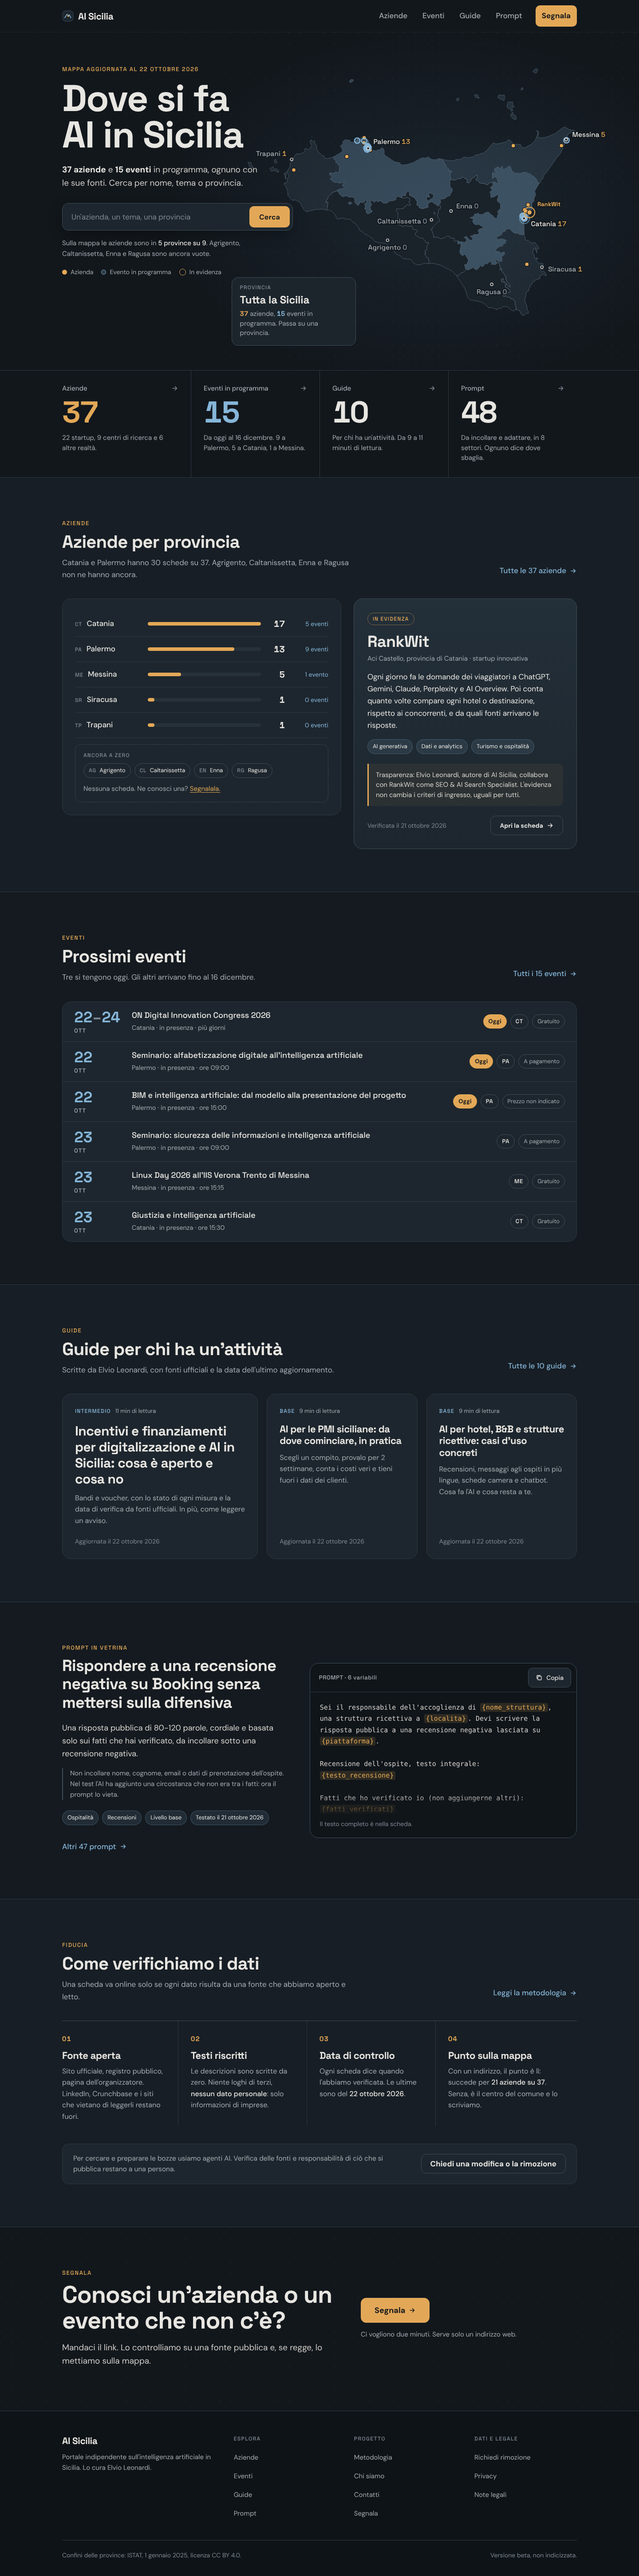
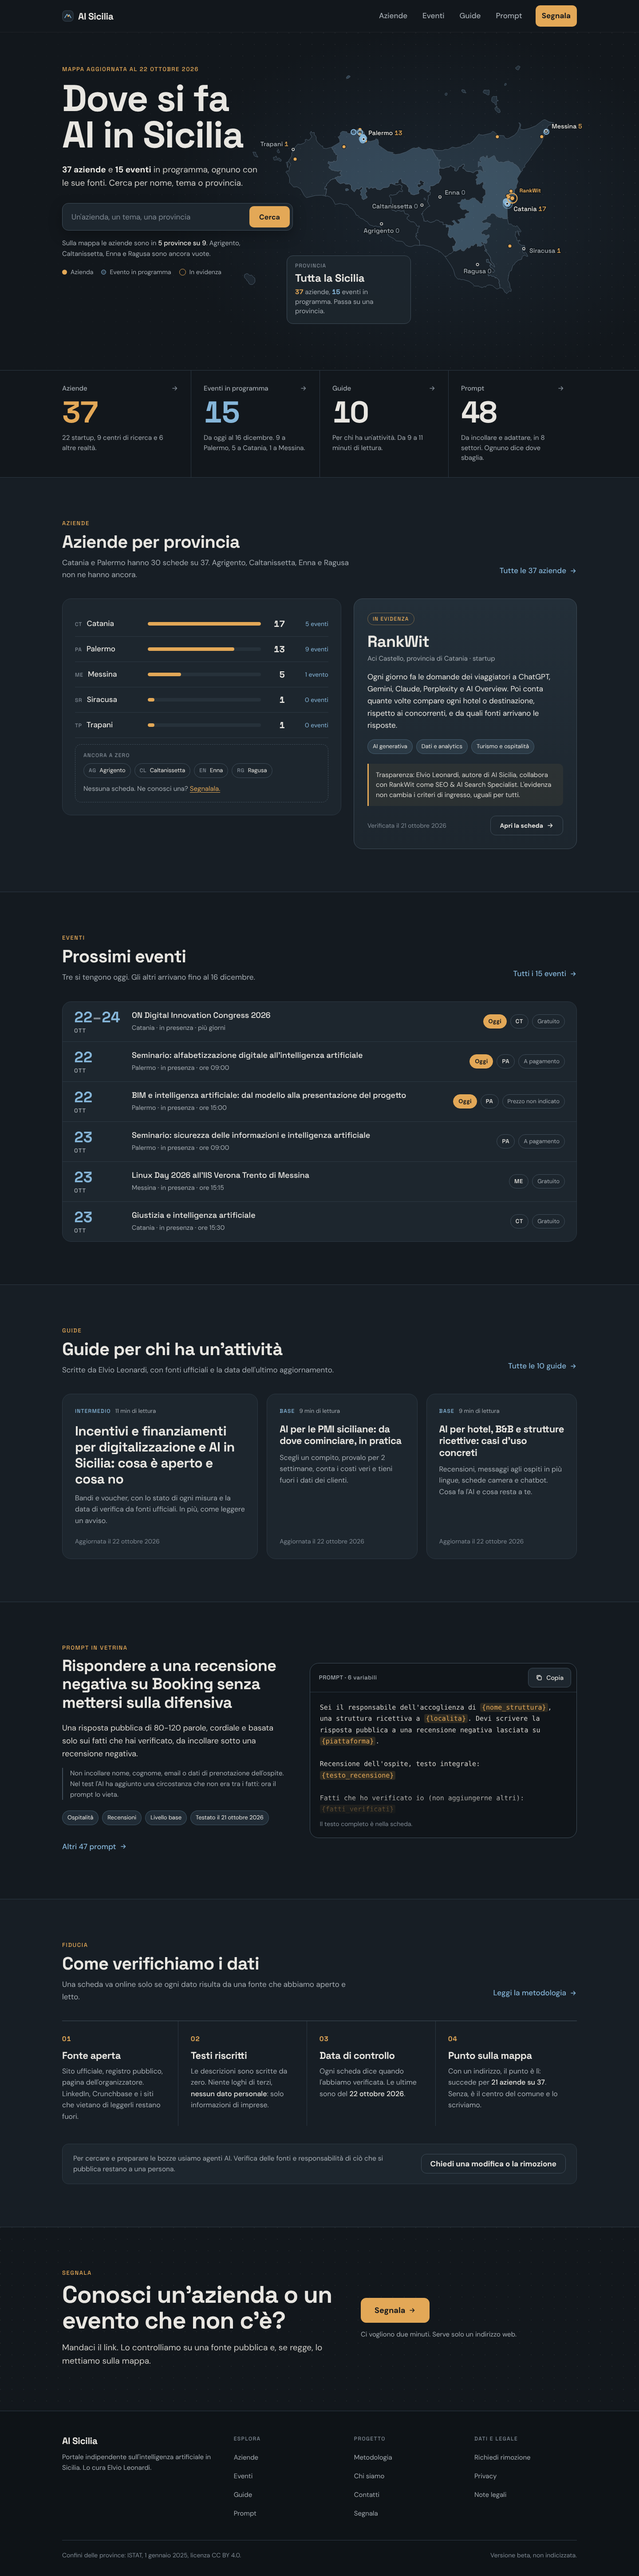
Mockup homepage (checkpoint locale)
Claude-Session: https://claude.ai/code/session_01LHSuPENt35K63dHdy5s7Bv

Changed region(s): [[0.4375, 0.0312, 0.9062, 0.1249], [0.375, 0.0937, 0.4062, 0.1249]]

diff --git a/docs/mockups/hp-c.html b/docs/mockups/hp-c.html
@@ -55,7 +55,7 @@ h2{font-size:clamp(28px,3.2vw,40px)}
   background-image:radial-gradient(circle at 1px 1px,rgba(232,230,225,.07) 1px,transparent 0);background-size:26px 26px}
 .hero::before{content:"";position:absolute;inset:0;background:radial-gradient(60% 75% at 68% 52%,rgba(60,90,120,.20),transparent 70%),linear-gradient(90deg,var(--bg0) 0,rgba(18,23,28,.0) 45%);pointer-events:none}
 .hero .wrap{position:relative}
-.hero-map{position:absolute;right:max(12px,calc((100vw - 1360px)/2));top:50px;width:min(61vw,890px)}
+.hero-map{position:absolute;right:max(12px,calc((100vw - 1360px)/2));top:46px;width:min(60vw,880px)}
 .sicily{display:block;width:100%;height:auto;overflow:visible}
 .prov path{stroke:#4A5A68;stroke-width:1px;vector-effect:non-scaling-stroke;stroke-linejoin:round;transition:filter .2s,stroke .2s}
 .prov{outline:none;cursor:pointer}
@@ -71,6 +71,7 @@ h2{font-size:clamp(28px,3.2vw,40px)}
 .lab .n{fill:var(--amber);font-variant-numeric:tabular-nums}
 .lab .n.z{fill:var(--faint)}
 .rwl{fill:var(--amber);font-weight:700;font-size:6.6px}
+.hero-copy>*{position:relative;z-index:2}
 .hero-copy{position:relative;z-index:2;padding:76px 0 40px;max-width:560px}
 .hero h1{font-size:clamp(44px,6vw,84px);line-height:.98;margin:18px 0 22px;text-wrap:balance}
 .lead{font-size:19px;color:#CFCDC8;max-width:34ch}
@@ -85,7 +86,7 @@ h2{font-size:clamp(28px,3.2vw,40px)}
 .search button:hover{background:#EDB868}
 .hero-note{margin-top:16px;font-size:15px;color:var(--muted);max-width:46ch}
 .hero-note b{color:var(--text);font-weight:500}
-.readout{position:absolute;z-index:3;left:0;bottom:-30px;width:280px;background:rgba(29,38,46,.92);border:1px solid var(--line-2);border-radius:var(--r);padding:16px 18px}
+.readout{position:absolute;z-index:3;left:110px;bottom:-34px;width:280px;background:rgba(29,38,46,.92);border:1px solid var(--line-2);border-radius:var(--r);padding:16px 18px}
 .readout .k{font:500 12px/1 var(--display);letter-spacing:.1em;text-transform:uppercase;color:var(--faint)}
 .readout .v{font:700 24px/1.15 var(--display);margin-top:8px;letter-spacing:-.01em}
 .readout .d{margin-top:6px;color:var(--muted);font-size:15px;line-height:1.45}
@@ -255,7 +256,7 @@ footer .about{max-width:34ch;margin-top:14px}
   .hero-copy>*{margin-left:20px;margin-right:20px}
   .hero-copy .eyebrow{order:1;margin-top:34px}
   .hero h1{order:2}.lead{order:3;margin-bottom:0}
-  .hero-map{order:4;margin:8px 0 0}
+  .hero-map{order:4;margin:-24px -18px -8px}
   .search{order:5;margin-top:10px}.hero-note{order:6}.legend{order:7}
   .hero .wrap{padding-bottom:0}
   .hero h1{font-size:46px;margin:14px 20px 16px}
@@ -283,9 +284,9 @@ footer .about{max-width:34ch;margin-top:14px}
   .prow{grid-template-columns:118px 1fr 32px;gap:10px}
   .pe{display:none}
   .prow .pn{font-size:15px}
-  .ev-row a{grid-template-columns:70px 1fr;gap:14px;padding:16px 18px}
+  .ev-row a{grid-template-columns:86px 1fr;gap:12px;padding:16px 18px}
   .ev-row .chips{grid-column:2;justify-content:flex-start}
-  .date b{font-size:28px}
+  .date b{font-size:26px}
   .evt{font-size:17px}
   .guides{grid-template-columns:1fr}
   .g{min-height:0}
@@ -319,7 +320,7 @@ footer .about{max-width:34ch;margin-top:14px}
       <div class="legend" aria-label="Legenda"><span><i class="a"></i>Azienda</span><span><i class="e"></i>Evento in programma</span><span><i class="r"></i>In evidenza</span></div>
     </div>
   </div>
-  <div class="hero-map"><svg viewBox="-4 -12 444 316" role="img" aria-labelledby="mt md" class="sicily"><title id="mt">Mappa della Sicilia con le aziende e gli eventi di AI Sicilia</title><desc id="md">37 aziende (punti ambra) e 15 eventi in programma (cerchi azzurri), divisi nelle nove province.</desc>
+  <div class="hero-map"><svg viewBox="-4 -12 474 316" role="img" aria-labelledby="mt md" class="sicily"><title id="mt">Mappa della Sicilia con le aziende e gli eventi di AI Sicilia</title><desc id="md">37 aziende (punti ambra) e 15 eventi in programma (cerchi azzurri), divisi nelle nove province.</desc>
 <g class="prov" tabindex="0" data-p="agrigento"><title>Agrigento: 0 aziende, 0 eventi in programma</title><path d="M189.7 150.8l.7 .1 2.2 .4 4-1.2 1 1.6 1.4 0 0 2-1.2 2.5 1.9 1.6 .1 1.4-.8 .4-3.5-1.1-1.2 2.2-1.5 0 .2 1.3-1.1 .7-4.7 1.1-2.7-.5-1 .8-.2 1.2 2 2 .1 7.2-4 4.9 3.6 .6 1.9 2.3 2.7 .4 1.7 1.2 2.7-1.6 3.9 1.2 3.8-.8-.3 1.1 1.3 2.9 3.8 .5 1.4 2-2.4 1.6-.4 2.1 4.6 3.6 3.6 .1 3.1 3 .5 1.9 2.2 .9 .7-.9 .6 .1-.3 2.1-1.9 1.7 .8 .9-1.1 1.9 1 1.5-2.5 1.2 .2 2.2 1 1.3-1.3-.5-.7 .6 2.8 4.3 1.9 .7 .6 6.3-5.9-.4-4.6 1.8-3.2-.2-3.8-1.7-2.4-3.2-1.9-1.3-7.6-.7-2.2-2.5-6.9-3.5-2.3-4.4-1.7-.6-2.8-3-1.9-.4-.1-1-2.1-2.2-2.4 .2-2.6-1-2.8 .6-1.5-1.1-1.7-.1-2-1-2.7-3.7-1.5-.4-3.9-3-2.9-.7-3.1-3.5-2.1-.4-1.6-3.7-4-4.8-2.1-.8-2.8-3.5-2.1-.7-1.9 .6-5.5-1.6-5.9 1.3-2.8-5.5-3.6-3.7-4.1-1.4-1.3 .4 .6 .2-1.1-.3-.4-.3 1.2-2.4 .9-6.4-2.9 .3 1.2-1.5-.7-.9 2.1-1.4 .4-2.3 4.2-4 0-.9 3-1 .5-1 .6 .9 1.2-.8 .2-.2 .2 .1 1.3 .3 2.1 3.6 3.4 2.6 4.5-1.2 2.5 1.8 4-.5 2.8 2.3-.2 4.2 3.8 3.5 2.9-4.2 2.6 .9 2-1.3 .6-1.6 2 .6 0 1.7-2.8 2.4 1.4 2.2-1.3 2.7 2 1.5-.1 3 1.9 1.7 4.4-2.3 .3-1.6-1.2-.3-1.1-3.5 .6-1.6 1.4-.7-1.8-4.4 1.3-1.1 1.4 .1 1.7 2.1 2.8-2.3 1.2 1.6 4.4-1.4 .4 1.6 1.4 1.1 4 .4 3.8-2.7 5.1-.3 1.9-1.5 .3-2.5 .7-.4 1.7-.4zM130.9 155.7l-1.7 .3 .2 2.2 1.2 0 2.6-1.1-1.3-1.3z" style="fill:#1A222A"/></g>
 <g class="prov" tabindex="0" data-p="caltanissetta"><title>Caltanissetta: 0 aziende, 0 eventi in programma</title><path d="M222.7 145.7l1 .1 .8 1.2 .9-.1 1 .7 .1 1.3-1.1 .4-.2 .5 1 1.4-.2 .4-2.6 .3-1.3 .9-1.4 1.6-1.5-.2-1.2-1.8 .1-2.2 .4-.3 1.6-.1 1.4 .2 0-1.1-1.3-.9 .7-2.1 .8-.7zM230.8 160l.3-.6 .2 .1 2.8 .5-.5 3.4-2.2 .9 .2 3.4-1.4 4.2 1.1 .7 .5 2.2 1.8 2.2-2.8 1.3-5.5 5.6-.8 .9 .1 2-1.6-.1 2.2 3.5-.6 .7 1.3 1.3-.2 1.7 .8 .2-.7 1.4 3.2 .6 1.4-1.2 .6 1.1 3.4 1.5 5-1.6 1.4-1.5 1.2 .1 2.4 .5 1.1 1.6 4.2 .6 0 3 3.7-.4 .1 0 0 .5 0 3.1 2.9-.9 .9 2.4-1.5 7.9 1.2 2.2 1.2 1.3 1.4 .2 2-1.6 4.3 6.8-2.1 5.1-2.1-.1-.3 .6 1.4 5.3 .1 .1-.3 .3-2.9 2.7-2.4 .7-2.5 2.5-2.9 .5-.2-.3-4-4.3-2.7-1.8-.7 .6 .5-.8-1-.8-3.2-1-5.9-3.3-9.4-2.4-4.2 .3-.2 .2-.6-6.3-1.9-.7-2.8-4.3 .7-.6 1.3 .5-1-1.3-.2-2.2 2.5-1.2-1-1.5 1.1-1.9-.8-.9 1.9-1.7 .3-2.1-.6-.1-.7 .9-2.2-.9-.5-1.9-3.1-3-3.6-.1-4.6-3.6 .4-2.1 2.4-1.6-1.4-2-3.8-.5-1.3-2.9 .3-1.1-3.8 .8-3.9-1.2-2.7 1.6-1.7-1.2-2.7-.4-1.9-2.3-3.6-.6 4-4.9-.1-7.2-2-2 .2-1.2 1-.8 2.7 .5 4.7-1.1 1.1-.7-.2-1.3 1.5 0 1.2-2.2 3.5 1.1 .8-.4-.1-1.4-1.9-1.6 1.2-2.5 0-2-1.4 0-1-1.6-4 1.2-2.2-.4-.7-.1 .2-.2 .9-2.5 3.4 .3 0-2.6 3.3-2.9 1 2.2 .2 3 5.9 2.8 1.6 3 1.2 .2-.5 5.1 3.2 1.5-.7 1.3 3.9 1.4 5.9-1.6 .8-.5-.7-2.3 .5-1.5 3.2-2.2 2 .5 2.8 2.3 1.8-.3 .3 2.2zM226.1 167.6l.3 1 .9 1.1 .8-.3-.2-1.1-.5-.7-1-.5z" style="fill:#1A222A"/></g>
 <g class="prov" tabindex="0" data-p="catania"><title>Catania: 17 aziende, 5 eventi in programma</title><path d="M346.6 134.7l-.6 .5-4.9 8.1 1.4 3.7-2 4.6 0 2.9-2.5 2.8 .2 7.4-1.1 .5-2.4 3.7-2.8 1.7 .2 .9-1.9 2.9 .1 2.3-.3-2.3-1.1 2.4 .5 15.6 0 .6-5.9-.5-.8-2.1-1.2 1.2-3-.6-3-1.6-1.5-2.5-2.7-1-2.8 .7-.7 2.1-3.9 1.6-.5 2.8-3 1-2.8 2.1-.3 1.1 1.2 .1 1.4 1.1 3.8-1.1 5.2 1.8-1.2 1.9 .3 1.3-2.6 1.1-1.1 2.3-3.6 .5-3.9 3.5 .9 2.5 2.1-.5 1.8 .8 .5 1.5 3.9-1.7 .8 .6-.1 2.4-3.6 3 1.1 2.2-.3 2.1-1.1 .7-3.3-.7-.7-.3-.8-.5-1.1-.5-.2 .9 1.9 3-2.7 1.8-2.2-.6-1.7 .6 .1-2.7-1.8-1.1-3.4 3.1-1.8-.7-1.1 .7-.8 2-2.2 .9-.9-1.6-4.5 5-2.2-.3-1.3-1 0-1.6-6.5 3.2-2.5-.6-.2 .3-.1-.1-1.4-5.3 .3-.6 2.1 .1 2.1-5.1-4.3-6.8-2 1.6-1.4-.2-1.2-1.3-1.2-2.2 1.5-7.9-.9-2.4-2.9 .9 0-3.1 0-.5 .1 0 3 1.2 1.8-.3 2.1 .8 .9 0 1.3-1.4 1.1 .2-.4-2.1-2.8-2.5 1.6-.3 .9-1.1 4.1 4.5 2.1 .5 1.3-2-2.9-3 2.4-.4 2.6-1.6 3 .4 1.3-.5 1-2.4-1.3-.9 .4-1.8 1.8-1.1 2-.2 1.4-1.4-.9-1.4-1.2 .2-2.5-2.1-3.5 .6-1.1-.5-1.8-1.6-.9-2.2 1.1-2.4-4.1-1.5 3.9-1.3 1.7-3.2 2 .3 2-1.2 1.3 1.7 4 0 .4-.8 3.8-2 1.6 .5 .9-.7 .1 1.3 .8 0 .8 1.3 2.8 1.7 2.3 2.9 .4-.6 .9 .9 1.4-.6 .1-2.8 .8-.6 .2-2.8-1.1-.9 3.8-3.7-.2-5.4-3.4-2.8 0-3 1-1.5-.5-3.3-4.7 3.4-1.8-.5-.6 1.1-.6-.2-.7-2.4 .4-2.4-1.4-1.2 3-2.9-1.9-2-.2-1.1 3-1.8-.5-3.2 .3-.5 2.2-.5 3.5 2.4 .5-.9-1.4-5.5-1.1-1.2-2-.8-2.1 2.6 0-7 2.2 .3 .8 1.5 1.1-2.1-2.2-1.5 .9-3.2 3.7-1.6 2.8 2.3 1.3-3.1 1 .5-.3 1.7 1.5 1.7 6.8-4.1 1.1 1.2 1.7 5.1 2.3 .7 .2 1.8 2.9-.8 3.5 .7 3.2-1.3 3.8-.3 2.1 1.6 2.2-.2 2.2 2.5 1.2 .1 3.6 3.2 2.6 5z" style="fill:rgba(134,182,217,0.330)"/></g>
@@ -347,7 +348,7 @@ footer .about{max-width:34ch;margin-top:14px}
     <article class="feat" aria-labelledby="h-rw">
       <span class="tag">In evidenza</span>
       <h3 id="h-rw">RankWit</h3>
-      <p class="where">Aci Castello, provincia di Catania · startup innovativa</p>
+      <p class="where">Aci Castello, provincia di Catania · startup</p>
       <p class="t">Ogni giorno fa le domande dei viaggiatori a ChatGPT, Gemini, Claude, Perplexity e AI Overview. Poi conta quante volte compare ogni hotel o destinazione, rispetto ai concorrenti, e da quali fonti arrivano le risposte.</p>
       <div class="pills"><span class="pill">AI generativa</span><span class="pill">Dati e analytics</span><span class="pill">Turismo e ospitalità</span></div>
       <p class="note">Trasparenza: Elvio Leonardi, autore di AI Sicilia, collabora con RankWit come SEO &amp; AI Search Specialist. L'evidenza non cambia i criteri di ingresso, uguali per tutti.</p>

diff --git a/docs/mockups/hp-b.html b/docs/mockups/hp-b.html
@@ -153,9 +153,10 @@ ul{margin:0;padding:0;list-style:none}
 .rw h3{font-size:clamp(30px,3.6vw,50px);font-weight:700;line-height:1.08;letter-spacing:-.02em;margin-top:14px}
 .rw .txt{margin-top:20px;font-size:18px;line-height:1.7;max-width:62ch}
 .rw .txt p+p{margin-top:.9em}
-.fact{margin-top:28px;border-top:1px solid var(--ink)}
-.fact div{display:grid;grid-template-columns:130px 1fr;gap:16px;padding:10px 0;border-bottom:1px solid var(--hair);font-size:16px}
-.fact dt{font:700 12.5px/1.8 var(--sans);letter-spacing:.12em;text-transform:uppercase;color:var(--ink2)}
+.fact{margin-top:40px;border-top:1px solid var(--ink);border-bottom:1px solid var(--ink);display:grid;grid-template-columns:repeat(5,auto);gap:0}
+.fact div{padding:16px 20px 18px;border-left:1px solid var(--hair);font-size:16px;line-height:1.45}
+.fact div:first-child{border-left:0;padding-left:0}
+.fact dt{margin-bottom:4px;font:700 12.5px/1.8 var(--sans);letter-spacing:.12em;text-transform:uppercase;color:var(--ink2)}
 .fact dd{margin:0}
 .disc{align-self:start;border:2px solid var(--ink);padding:26px 28px;background:#fff;position:relative}
 .disc::before{content:"";position:absolute;left:-2px;top:-2px;bottom:-2px;width:8px;background:var(--accent)}
@@ -258,6 +259,9 @@ footer .legal{margin-top:36px;padding-top:14px;border-top:1px solid var(--hair);
   .nums li:nth-child(n+3){border-top:1px solid var(--hair)}
   .nums li:nth-child(3) a{padding-left:0}
   .rw,.terr,.pp,.quoteband .wrap{grid-template-columns:1fr;gap:36px}
+  .fact{grid-template-columns:1fr 1fr}
+  .fact div:nth-child(odd){border-left:0;padding-left:0}
+  .fact div:nth-child(n+3){border-top:1px solid var(--hair)}
   .trust .cols{grid-template-columns:1fr 1fr;gap:32px}
   .cta .wrap{grid-template-columns:1fr}
   .g3{grid-template-columns:1fr;gap:28px}
@@ -268,21 +272,28 @@ footer .legal{margin-top:36px;padding-top:14px;border-top:1px solid var(--hair);
   body{font-size:17px}
   .sec{padding-top:44px}
   .mast{padding-top:20px}
-  .mast h1{font-size:19.5vw}
+  .mast h1{font-size:26.5vw}
   .strip .wrap{flex-direction:column}
-  .navbar a{padding:0 9px;font-size:13px;letter-spacing:.08em}
+  .navbar .wrap{justify-content:space-between;gap:0}
+  .navbar a{padding:0 4px;font-size:12.5px;letter-spacing:.05em}
+  .mapfig .plab{font-size:12px}
   .deck{margin-top:32px}
   .deck p{font-size:17px}
   .body2{column-count:1}
   .agenda .list{grid-template-columns:1fr}
-  .day{grid-template-columns:54px 1fr;gap:0 10px}
+  .day{grid-template-columns:1fr}
+  .daylab{flex-direction:row;align-items:baseline;gap:12px;margin-bottom:8px}
+  .dtxt{margin-top:0}
+  .day li:first-child{padding-top:0}
   .nums a{padding:20px 14px 22px 0}
   .nums li:nth-child(even) a{padding-left:16px}
   .nums li:nth-child(odd) a{padding-left:0}
   .nums .txt{font-size:14.5px}
   .quoteband blockquote{padding-top:44px}
   .quoteband blockquote::before{font-size:150px;top:-12px}
-  .fact div{grid-template-columns:1fr;gap:0}
+  .fact{grid-template-columns:1fr}
+  .fact div{border-left:0!important;padding-left:0!important;border-top:1px solid var(--hair)}
+  .fact div:first-child{border-top:0}
   .prov li{grid-template-columns:100px 1fr 40px;gap:10px}
   .pn{font-size:19px}
   .glist{grid-template-columns:1fr}
@@ -416,15 +427,15 @@ footer .legal{margin-top:36px;padding-top:14px;border-top:1px solid var(--hair);
         <p class="small">La scheda segue le stesse regole delle altre 37: descrizione riscritta, fonti consultate, data di verifica. La segnaliamo in evidenza e lo diciamo qui.</p>
         <a class="btn ghost" href="/aziende/rankwit/">Apri la scheda di RankWit</a>
       </aside>
-        <dl class="fact">
-          <div><dt>Tipo</dt><dd>Startup</dd></div>
-          <div><dt>Aree di AI</dt><dd>AI generativa, dati e analytics</dd></div>
-          <div><dt>Settore</dt><dd>Turismo e ospitalità</dd></div>
-          <div><dt>Fonti</dt><dd>Sito aziendale e Registro delle imprese</dd></div>
-          <div><dt>Verificata il</dt><dd><time datetime="2026-10-21">21 ottobre 2026</time></dd></div>
-        </dl>
       </div>
     </div>
+    <dl class="fact">
+      <div><dt>Tipo</dt><dd>Startup</dd></div>
+      <div><dt>Aree di AI</dt><dd>AI generativa, dati e analytics</dd></div>
+      <div><dt>Settore</dt><dd>Turismo e ospitalità</dd></div>
+      <div><dt>Fonti</dt><dd>Sito aziendale e Registro delle imprese</dd></div>
+      <div><dt>Verificata il</dt><dd><time datetime="2026-10-21">21 ottobre 2026</time></dd></div>
+    </dl>
   </section>
 
   <section class="sec wrap" aria-labelledby="terr-t">
